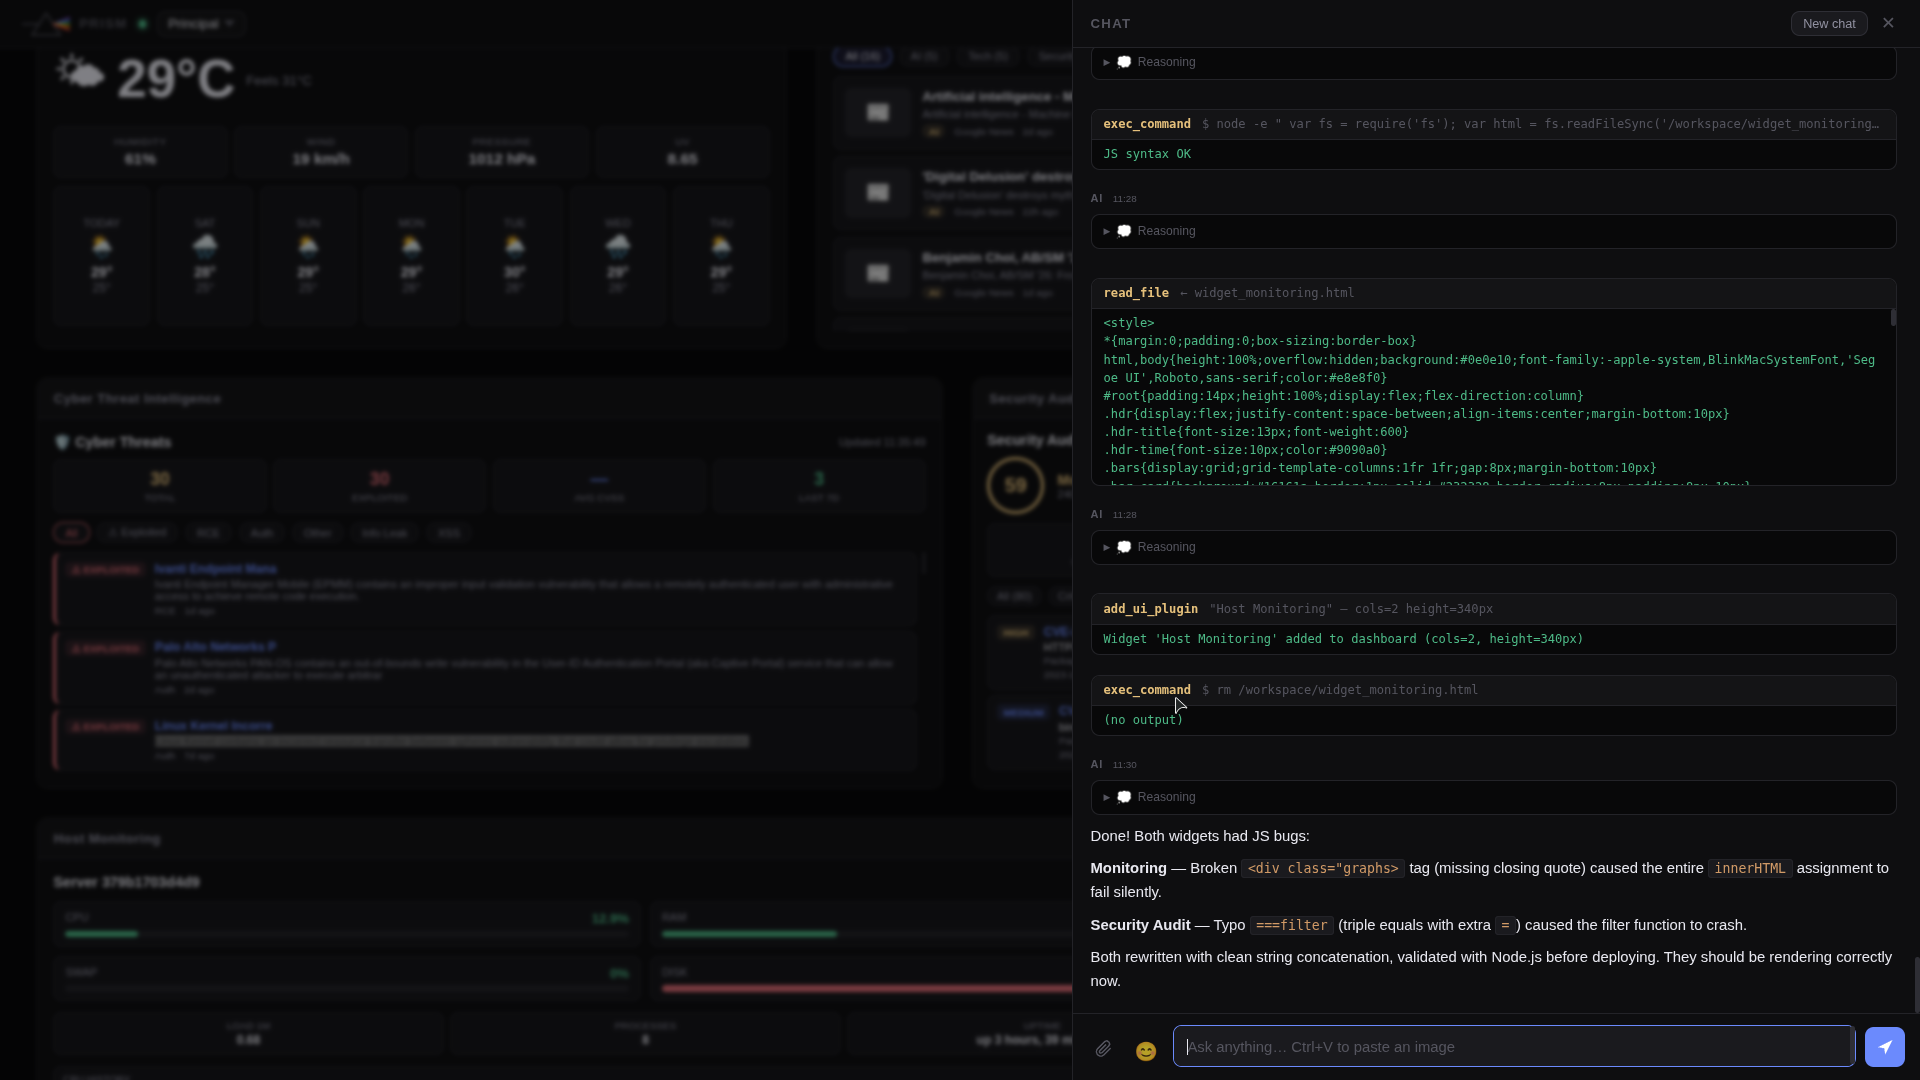
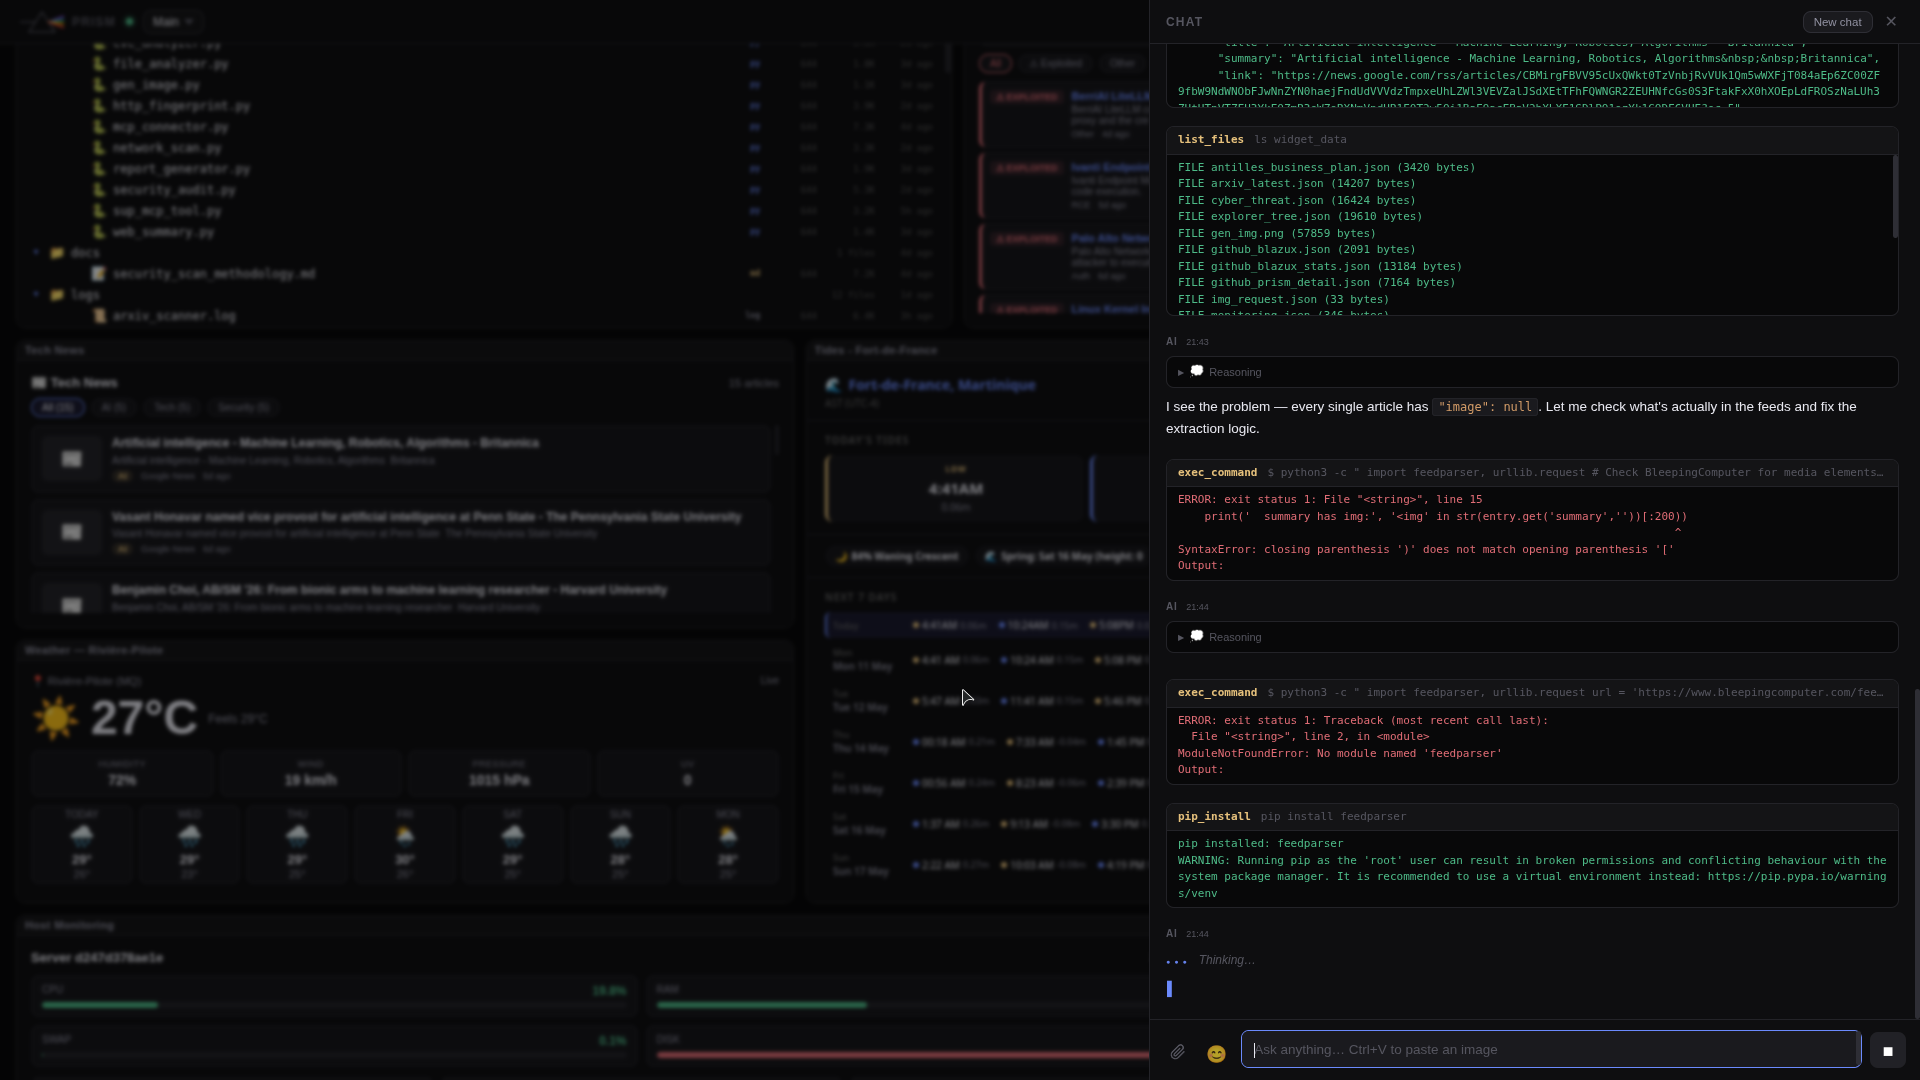
Fixing layout save and restore

diff --git a/web/app.js b/web/app.js
@@ -22,7 +22,7 @@ let batchLoadingTimer = null
 let notifications = []   // [{id, title, message, level, read, createdAt}]
 let notifPanelOpen = false
 
-const LAYOUT_KEY = 'dashboard-layout'
+const layoutKey = () => `dashboard-layout:${currentSessionID}`
 
 // ─── GridStack ────────────────────────────────────────────────────────────────
 
@@ -51,11 +51,11 @@ function saveLayout() {
   const nodes = grid.save(false)
   const layout = {}
   nodes.forEach(n => { if (n.id) layout[n.id] = { x: n.x, y: n.y, w: n.w, h: n.h } })
-  localStorage.setItem(LAYOUT_KEY, JSON.stringify(layout))
+  localStorage.setItem(layoutKey(), JSON.stringify(layout))
 }
 
 function loadWidgetPos(elemId) {
-  try { return JSON.parse(localStorage.getItem(LAYOUT_KEY) || '{}')[elemId] ?? null }
+  try { return JSON.parse(localStorage.getItem(layoutKey()) || '{}')[elemId] ?? null }
   catch { return null }
 }
 
@@ -698,11 +698,12 @@ function renderSessionSwitcher(sessions) {
 }
 
 function switchToSession(id) {
+  batchLoading = true
+  clearChat()
+  for (const wid of [...widgets.keys()]) removeWidget(wid)
   currentSessionID = id
   localStorage.setItem('active-session', id)
   updateSettingsLink()
-  clearChat()
-  for (const wid of [...widgets.keys()]) removeWidget(wid)
   pendingImages = []
   renderImagePreviews()
   notifications = []
